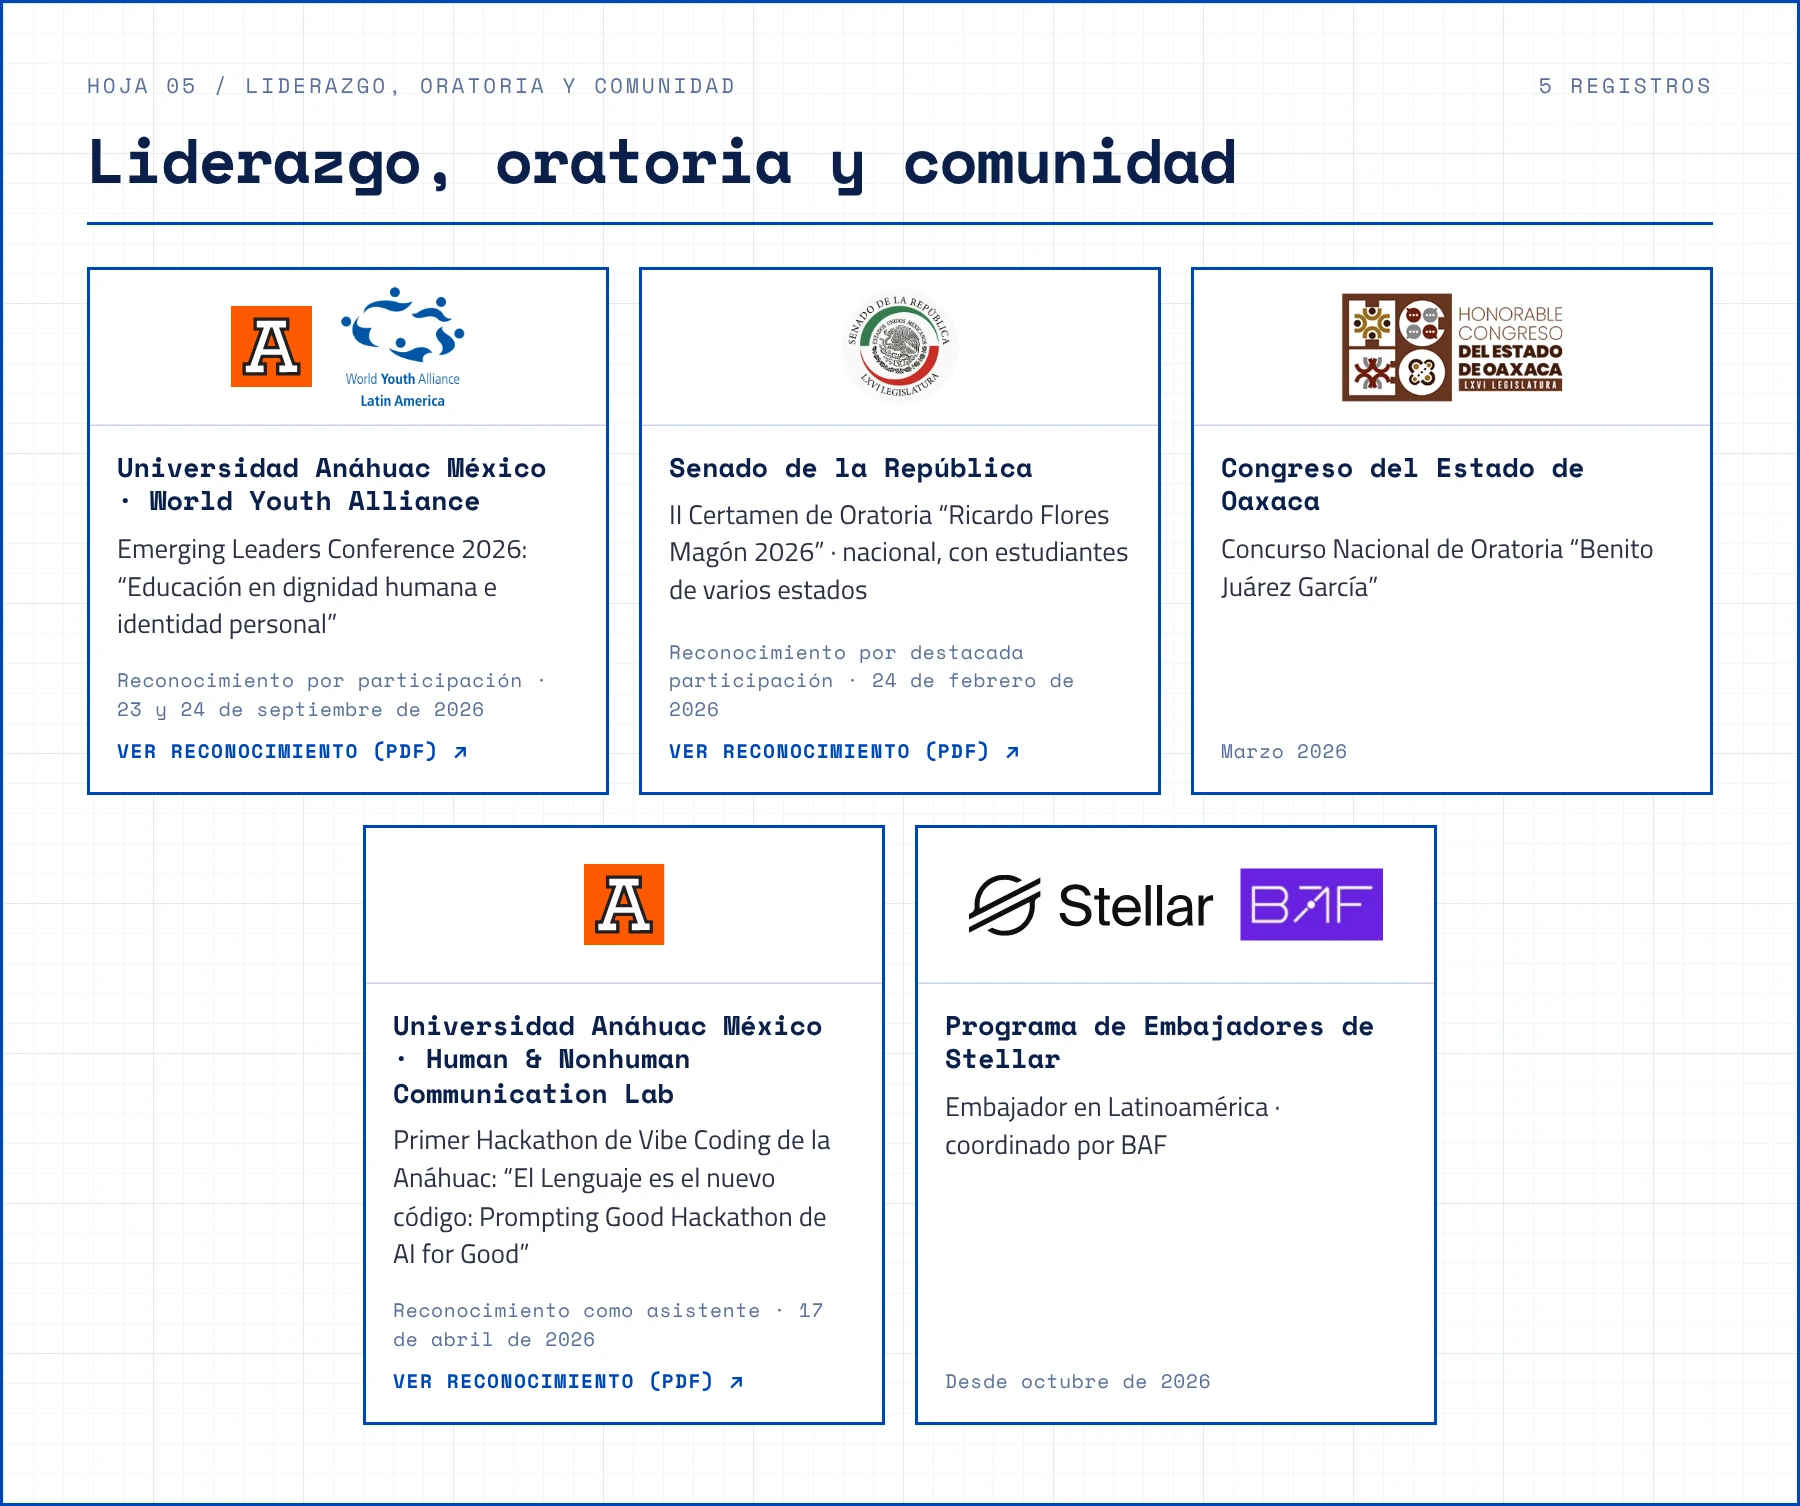
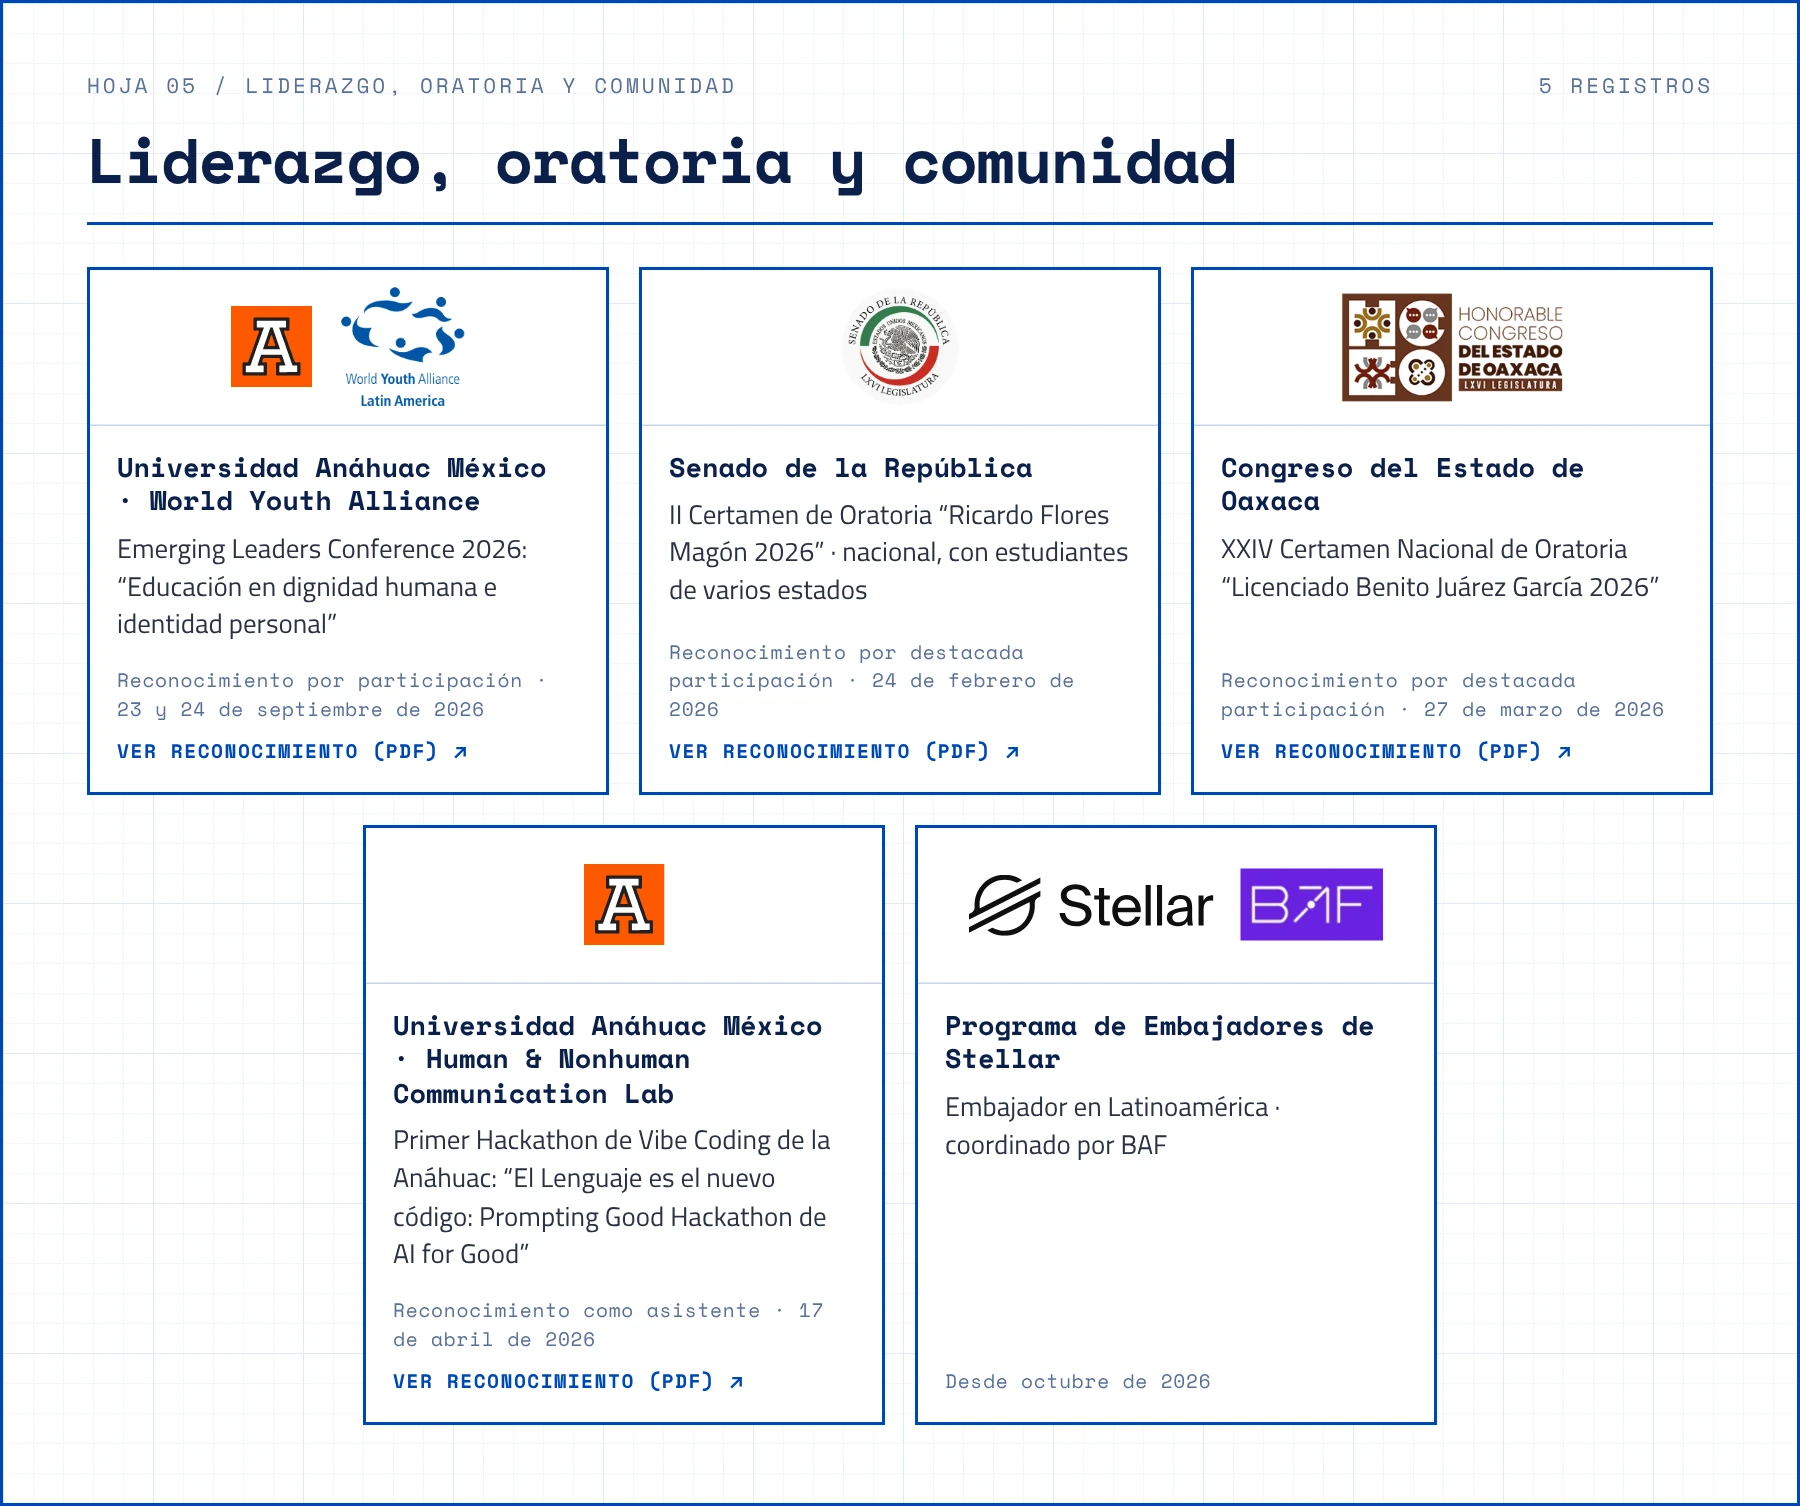
README: reconocimiento del Certamen Nacional de Oratoria de Oaxaca
Claude-Session: https://claude.ai/code/session_01JVx4WVHgHNUwPfAfqkxhoB

Changed region(s): [[0.6844, 0.3433, 0.9022, 0.4057], [0.6844, 0.4369, 0.8711, 0.5305]]

diff --git a/README.md b/README.md
@@ -47,12 +47,13 @@ Entré a una empresa de distribución como auxiliar administrativo y a los tres 
 <a href="https://jose2501106-ia.github.io/#perfil">
 <picture>
   <source media="(prefers-color-scheme: dark)" srcset="assets/laminas/oratoria-oscuro.webp">
-  <img src="assets/laminas/oratoria-claro.webp" width="100%" alt="Liderazgo, oratoria y comunidad. Universidad Anáhuac México · World Youth Alliance: Emerging Leaders Conference 2026: “Educación en dignidad humana e identidad personal” (Reconocimiento por participación · 23 y 24 de septiembre de 2026); Senado de la República: II Certamen de Oratoria “Ricardo Flores Magón 2026” · nacional, con estudiantes de varios estados (Reconocimiento por destacada participación · 24 de febrero de 2026); Congreso del Estado de Oaxaca: Concurso Nacional de Oratoria “Benito Juárez García” (Marzo 2026); Universidad Anáhuac México · Human &amp; Nonhuman Communication Lab: Primer Hackathon de Vibe Coding de la Anáhuac: “El Lenguaje es el nuevo código: Prompting Good Hackathon de AI for Good” (Reconocimiento como asistente · 17 de abril de 2026); Programa de Embajadores de Stellar: Embajador en Latinoamérica · coordinado por BAF (Desde octubre de 2026).">
+  <img src="assets/laminas/oratoria-claro.webp" width="100%" alt="Liderazgo, oratoria y comunidad. Universidad Anáhuac México · World Youth Alliance: Emerging Leaders Conference 2026: “Educación en dignidad humana e identidad personal” (Reconocimiento por participación · 23 y 24 de septiembre de 2026); Senado de la República: II Certamen de Oratoria “Ricardo Flores Magón 2026” · nacional, con estudiantes de varios estados (Reconocimiento por destacada participación · 24 de febrero de 2026); Congreso del Estado de Oaxaca: XXIV Certamen Nacional de Oratoria “Licenciado Benito Juárez García 2026” (Reconocimiento por destacada participación · 27 de marzo de 2026); Universidad Anáhuac México · Human &amp; Nonhuman Communication Lab: Primer Hackathon de Vibe Coding de la Anáhuac: “El Lenguaje es el nuevo código: Prompting Good Hackathon de AI for Good” (Reconocimiento como asistente · 17 de abril de 2026); Programa de Embajadores de Stellar: Embajador en Latinoamérica · coordinado por BAF (Desde octubre de 2026).">
 </picture>
 </a>
 
 <p align="right"><sub><a href="https://jose2501106-ia.github.io/reconocimientos/2026-09-23_emerging-leaders-conference.pdf">Emerging Leaders Conference 2026 (Anáhuac · WYA) · Ver reconocimiento (PDF) →</a></sub></p>
 <p align="right"><sub><a href="https://jose2501106-ia.github.io/reconocimientos/2026-02-24_certamen-oratoria-ricardo-flores-magon.pdf">Certamen de Oratoria “Ricardo Flores Magón” (Senado) · Ver reconocimiento (PDF) →</a></sub></p>
+<p align="right"><sub><a href="https://jose2501106-ia.github.io/reconocimientos/2026-03-27_certamen-nacional-oratoria-benito-juarez.pdf">Certamen Nacional de Oratoria “Benito Juárez García” (Oaxaca) · Ver reconocimiento (PDF) →</a></sub></p>
 <p align="right"><sub><a href="https://jose2501106-ia.github.io/reconocimientos/2026-04-17_hackathon-vibe-coding-anahuac.pdf">Hackathon de Vibe Coding (Anáhuac) · Ver reconocimiento (PDF) →</a></sub></p>
 
 <a href="https://jose2501106-ia.github.io/#contacto">
